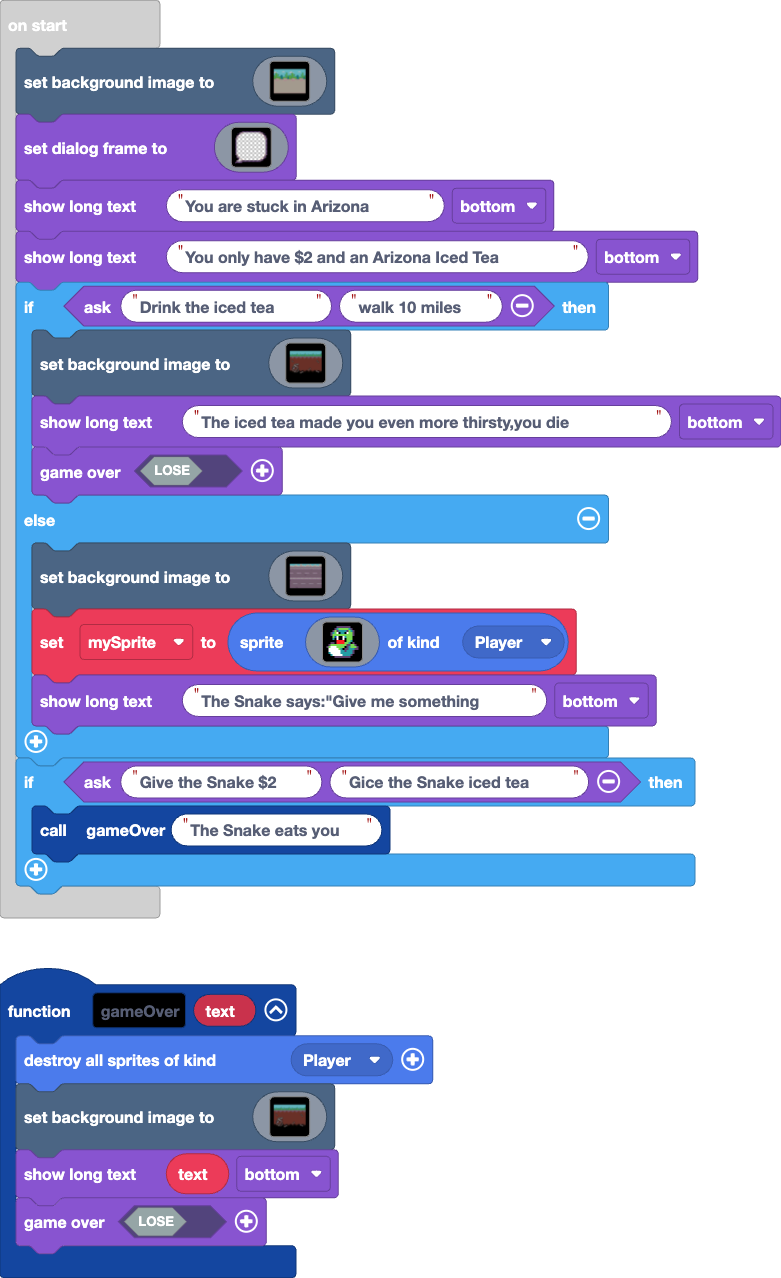
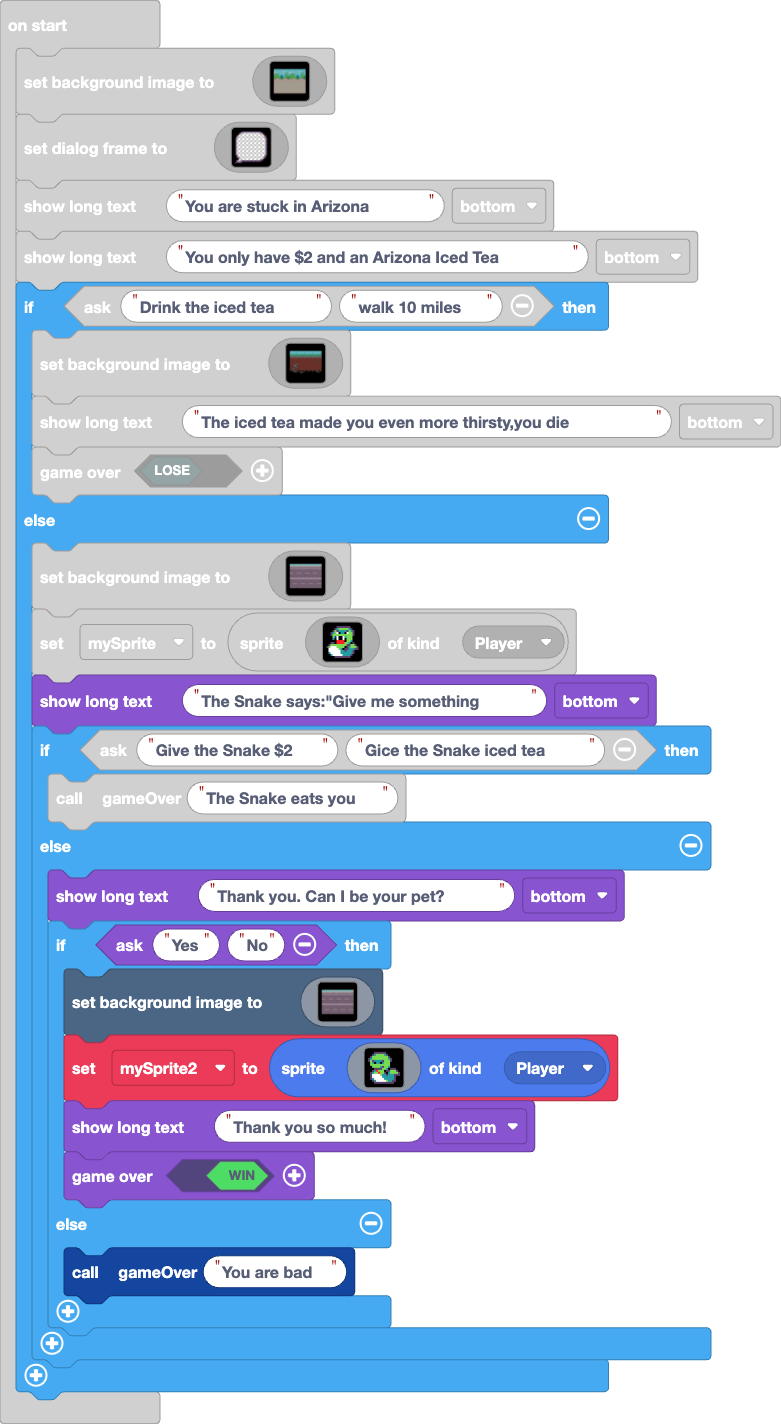
Finish the game

diff --git a/main.ts b/main.ts
@@ -125,6 +125,7 @@ function gameOver (text: string) {
     game.showLongText(text, DialogLayout.Bottom)
     game.over(false)
 }
+let mySprite2: Sprite = null
 let mySprite: Sprite = null
 scene.setBackgroundImage(img`
     9999999999999999999999999999999999999999999999999999999999999999999999999999999999999999999999999999999999999999999999999999999999999999999999999999999999999999
@@ -543,7 +544,155 @@ if (game.ask("Drink the iced tea", "walk 10 miles")) {
         . . f f c c c c c c c c . . . . 
         `, SpriteKind.Player)
     game.showLongText("The Snake says:\"Give me something ", DialogLayout.Bottom)
-}
-if (game.ask("Give the Snake $2", "Gice the Snake iced tea")) {
-    gameOver("The Snake eats you")
+    if (game.ask("Give the Snake $2", "Gice the Snake iced tea")) {
+        gameOver("The Snake eats you")
+    } else {
+        game.showLongText("Thank you. Can I be your pet?", DialogLayout.Bottom)
+        if (game.ask("Yes", "No")) {
+            scene.setBackgroundImage(img`
+                9999999999999999999999999999999999999999999999999999999999999999999999999999999999999999999999999999999999999999999999999999999999999999999999999999999999999999
+                9999999999999999999999999999999999999999999999999999111111111119999999999999999999999999999999999999991111999999999999999999999999999999999999999999111111111111
[12 lines of base64/hex data omitted]
+                cccccccccccccccccccccccccccccccccccccccccccccccccccccccccccccccccccccccccccccccccccccccccccccccccccccccccccccccccccccccccccccccccccccccccccccccccccccccccccccccc
+                1111111111111111111111111111111111111111111111111111111111111111111111111111111111111111111111111111111111111111111111111111111111111111111111111111111111111111
[3 lines of base64/hex data omitted]
+                bbbbbbbbbbbbbbbbbbbbbbbbbbbbbbbbbbbbbbbbbbbbbbbbbbbbbbbbbbbbbbbbbbbbbbbbbbbbbbbbbbbbbbbbbbbbbbbbbbbbbbbbbbbbbbbbbbbbbbbbbbbbbbbbbbbbbbbbbbbbbbbbbbbbbbbbbbbbbbbb
+                bbbbbbbbbbbbbbbbbbbbbbbbbbbbbbbbbbbbbbbbbbbbbbbbbbbbbbbbbbbbbbbbbbbbbbbbbbbbbbbbbbbbbbbbbbbbbbbbbbbbbbbbbbbbbbbbbbbbbbbbbbbbbbbbbbbbbbbbbbbbbbbbbbbbbbbbbbbbbbbb
+                bbbbbbbbbbbbbbbbbbbbbbbbbbbbbbbbbbbbbbbbbbbbbbbbbbbbbbbbbbbbbbbbbbbbbbbbbbbbbbbbbbbbbbbbbbbbbbbbbbbbbbbbbbbbbbbbbbbbbbbbbbbbbbbbbbbbbbbbbbbbbbbbbbbbbbbbbbbbbbbb
+                bbbbbbbbbbbbbbbbbbbbbbbbbbbbbbbbbbbbbbbbbbbbbbbbbbbbbbbbbbbbbbbbbbbbbbbbbbbbbbbbbbbbbbbbbbbbbbbbbbbbbbbbbbbbbbbbbbbbbbbbbbbbbbbbbbbbbbbbbbbbbbbbbbbbbbbbbbbbbbbb
[2 lines of base64/hex data omitted]
+                bbbbbbbbbbbbbbbbbbbbbbbbbbbbbbbbbbbbbbbbbbbbbbbbbbbbbbbbbbbbbbbbbbbbbbbbbbbbbbbbbbbbbbbbbbbbbbbbbbbbbbbbbbbbbbbbbbbbbbbbbbbbbbbbbbbbbbbbbbbbbbbbbbbbbbbbbbbbbbbb
+                bbbbbbbbbbbbbbbbbbbbbbbbbbbbbbbbbbbbbbbbbbbbbbbbbbbbbbbbbbbbbbbbbbbbbbbbbbbbbbbbbbbbbbbbbbbbbbbbbbbbbbbbbbbbbbbbbbbbbbbbbbbbbbbbbbbbbbbbbbbbbbbbbbbbbbbbbbbbbbbb
+                bbbbbbbbbbbbbbbbbbbbbbbbbbbbbbbbbbbbbbbbbbbbbbbbbbbbbbbbbbbbbbbbbbbbbbbbbbbbbbbbbbbbbbbbbbbbbbbbbbbbbbbbbbbbbbccccbbbbbbbbbbbbbbbbbbbbbbbbbbbbbbbbbbbbbbbbbbbbbb
+                bbbbbbbbbbbbbccccbbbbbbbbbbbbbbbbbbbbbbbbbbbbbbbbbbbbbbbbbbbbbbbbbbbbbbbbbbbbbbbbbbbbbbbbbbbbbbbbbbbbbbccccbccbbbbbbbbbbbbbbbbbbbbbbbbbbbbbbbbbbbbbbbbbbbbbbbbbb
+                bbbbbbbbbbbbcbddbcbbbbbbbbbbbbbbbbbbbbbbbbbbbbbbbbbbbbbbbbbbbbbbbbbbbbbbbbbbbbbbbbbbbbbbbbbbbbbbbbbbbbbbbbbccbbbbbbbbbbbbbbbbbbbbbbbbbbbbbbbbbbbbbbbbbbbbbbbbbbb
+                bbbbbbbbbbbbbbbbbbbbbbbbbbbbbbbbbbbbbbbbbbbbbbbbbbbbbbbbbbbbbbbbbbbbbbbbbbbbbbbbbbbbbbbbbbbbbbbbbbbbbbbbbbbbbcbbbbbbbbbbbbbbbbbbbbbbbbbbbbbbbbbbbbbbbbbbbbbbbbbb
+                bbbbbbbbbbbbbbbbbbbbbbbbbbbbbbbbbbbbbbbbbbbbbbbbbbbbbbbbbbbbbbbbbbbbbbbbbbbbbbbbbbbbbbbbbbbbbbbbbbbbbbbbbbbbbbbbbbbbbbbbbbbbbbbbbbbbbbbbbbbbbbbbbbbbbbbbbbbbbbbb
+                bbbbbbbbbbbbbbbbbbbbbbbbbbbbbbbbbbbbbbbbbbbbbbbbbbbbbbbbbbbbbbbbbbbbbbbbbbbbbbbbbbbbbbbbbbbbbbbbbbbbbbbbbbbbbbbbbbbbbbbbbbbbbbbbbbbbbbbbbbbbbbbbbbbbbbbbbbbbbbbb
+                bbbbbbbbbbbbbbbbbbbbbbbbbbbbbbbbbbbbbbbbbbbbbbbbbbbbbbbbbbbbbbbbbbbbbbbbbbbbbbbbbbbbbbbbbbbbbbbbbbbbbbbbbbbbbbbbbbbbbbbbbbbbbbbbbbbbbbbbbbbbbbbbbbbbbbbbbbbbbbbb
+                bbbbbbbbbbbbbbbbbbbbbbbbbbbbbbbbbbbbbbbbbbbbbbbbbbbbbbbbbbbbbbbbbbbbbbbbbbbbbbbbbbbbbbbbbbbbbbbbbbbbbbbbbbbbbbbbbbbbbbbbbbbbbbbbbbbbbbbbbbbbbbbbbbbbbbbbbbbbbbbb
+                bbbbbbbbbbbbbbbbbbbbbbbbbbbbbbbbbbbbbbbbbbbbbbbbbbbbbbbbbbbbbbbbbbbbbbbbbbbbbbbbbbbbbbbbbbbbbbbbbbbbbbbbbbbbbbbbbbbbbbbbbbbbbbbbbbbbbbbbbbbbbbbbbbbbbbbbbbbbbbbb
+                bbbbbbbbbbbbbbbbbbbbbbbbbbbbbbbbbbbbbbbbbbbbbbbbbbbbbbbbbbbbbbbbbbbbbbbbbbbbbbbbbbbbbbbbbbbbbbbbbbbbbbbbbbbbbbbbbbbbbbbbbbbbbbbbbbbbbbbbbbbbbbbbbbbbbbbbbbbbbbbb
+                bbbbbbbbbbbbbbbbbbbbbbbbbbbbbbbbbbbbbbbbbbbbbbbbbbbbbbbbbbbbbbbbbbbbbbbbbbbbbbbbbbbbbbbbbbbbbbbbbbbbbbbbbbbbbbbbbbbbbbbbbbbbbbbbbbbbbbbbbbbbbbbbbbbbbbbbbbbbbbbb
+                bbbbbbbbbbbbbbbbbbbbbbbbbbbbbbbbbbbbbbbbbbbbbbbbbbbbbbbbbbbbbbbbbbbbbbbbbbbbbbbbbbbbbbbbbbbbbbbbbbbbbbbbbbbbbbbbbbbbbbbbbbbbbbbbbbbbbbbbbbbbbbbbbbbbbbbbbbbbbbbb
+                bbbbbbbbbbbbbbbbbbbbbbbbbbbbbbbbbbbbbbbbbbbbbbbbbbbbbbbbbbbbbbbbbbbbbbbbbbbbbbbbbbbbbbbbbbbbbbbbbbbbbbbbbbbbbbbbbbbbbbbbbbbbbbbbbbbbbbbbbbbbbbbbbbbbbbbbbbbbbbbb
+                bbbbbbbbbbbbbbbbbbbbbbbbbbbbbbbbbbbbbbbbbbbbbbbbbbbbbbbbbbbbbbbbbbbbbbbbbbbbbbbbbbbbbbbbbbbbbbbbbbbbbbbbbbbbbbbbbbbbbbbbbbbbbbbbbbbbbbbbbbbbbbbbbbbbbbbbbbbbbbbb
+                bbbbbbbbbbbbbbbbbbbbbbbbbbbbbbbbbbbbbbbbbbbbbbbbbbbbbbbbbbbbbbbbbbbbbbbbbbbbbbbbbbbbbbbbbbbbbbbbbbbbbbbbbbbbbbbbbbbbbbbbbbbbbbbbbbbbbbbbbbbbbbbbbbbbbbbbbbbbbbbb
+                bbbbbbbbbbbbbbbbbbbbbbbbbbbbbbbbbbbbbbbbbbbbbbbbbbbbbbbbbbbbbbbbbbbbbbbbbbbbbbbbbbbbbbbbbbbbbbbbbbbbbbbbbbbbbbbbbbbbbbbbbbbbbbbbbbbbbbbbbbbbbbbbbbbbbbbbbbbbbbbb
+                bbbbbbbbbbbbbbbbbbbbbbbbbbbbbbbbbbbbbbbbbbbbbbbbbbbbbbbbbbbbbbbbbbbbbbbbbbbbbbbbbbbbbbbbbbbbbbbbbbbbbbbbbbbbbbbbbbbbbbbbbbbbbbbbbbbbbbbbbbbbbbbbbbbbbbbbbbbbbbbb
+                bbbbbbbbbbbbbbbbbbbbbbbbbbbbbbbbbbbbbbbbbbbbbbbbbbbbbbbbbbbbbbbbbbbbbbbbbbbbbbbbbbbbbbbbbbbbbbbbbbbbbbbbbbbbbbbbbbbbbbbbbbbbbbbbbbbbbbbbbbbbbbbbbbbbbbbbbbbbbbbb
[2 lines of base64/hex data omitted]
+                bbbbbbbbbbbbbbbbbbbbbbbbbbbbbbbbbbbbbbbbbbbbbbbbbbbbbbbbbbbbbbbbbbbbbbbbbbbbbbbbbbbbbbbbbbbbbbbbbbbbbbbbbbbbbbbbbbbbbbbbbbbbbbbbbbbbbbbbbbbbbbbbbbbbbbbbbbbbbbbb
+                bbbbbbbbbbbbbbbbbbbbbbbbbbbbbbbbbbbbbbbbbbbbbbbbbbbbbbbbbbbbbbbbbbbbbbbbbbbbbbbbbbbbbbbbbbbbbbbbbbbbbbbbbbbbbbbbbbbbbbbbbbbbbbbbbbbbbbbbbbbbbbbbbbbbbbbbbbbbbbbb
+                bbbbbbbbbbbbbbbbbbbbbbbbbbbbbbbbbbbbbbbbbbbbbbbbbbbbbbbbbbbbbbbbbbbbbbbbbbbbbbbbbbbbbbbbbbbbbbbbbbbbbbbbbbbbbbbbbbbbbbbbbbbbbbbbbbbbbbbbbbbbbbbbbbbbbbbbbbbbbbbb
+                bbbbbbbbbbbbbbbbbbbbbbbbbbbbbbbbbbbbbbbbbbbbbbbbbbbbbbbbbbbbbbbbbbbbbbbbbbbbbbbbbbbbbbbbbbbbbbbbbbbbbbbbbbbbbbbbbbbbbbbbbbbbbbbbbbbbbbbbbbbbbbbbbbbbbbbbbbbbbbbb
+                bbbbbbbbbbbbbbbbbbbbbbbbbbbbbbbbbbbbbbbbbbbbbbbbbbbbbbbbbbbbbbbbbbbbbbbbbbbbbbbbbbbbbbbbbbbbbbbbbbbbbbbbbbbbbbbbbbbbbbbbbbbbbbbbbbbbbbbbbbbbbbbbbbbbbbbbbbbbbbbb
+                bbbbbbbbbbbbbbbbbbbbbbbbbbbbbbbbbbbbbbbbbbbbbbbbbbbbbbbbbbbbbbbbbbbbbbbbbbbbbbbbbbbcbbbbbbbbbbbbbbbbbbbbbbbbbbbbbbbbbbbbbbbbbbbbbbbbbbbbbbbbbbbbbbbbbbbbbbbbbbbb
+                bbbbbbbbbbbbbbbbbbbbbbbbbbbbbbbbbbbbbbbbbbbbbbbbbbbbbbbbbbbbbbbbbbbbbbbbbcccbbbccccbbbbbbbbbbbbbbbbbbbbbbbbbbbbbbbbbbbbbbbbbbbbbbbbbbbbbbbbbbbbbbbbbbbbbbbbbbbbb
+                bbbbbbbbbbbbbbbbbbbbbbbbbbbbbbbbbbbbbbbbbbbbbbbbbbbbbbbbbbbbbbbbbbbbbbbbcbbcbbcbcbbbbbbbbbbbbbbbbbbbbbbbbbbbbbbbbbbbbbbbbbbbbbbbbbbbbbbbbbbbbbbbbbbbbbbbbbbbbbbb
+                bbbbbbbbbbbbbbbbbbbbbbbbbbbbbbbbbbbbbbbbbbbbbbbbbbbbbbbbbbbbbbbbbbbbbbbbbbbbccbcbbbbbbbbbbbbbbbbbbbbbbbbbbbbbbbbbbbbbbbbbbbbbbbbbbbbbbbbbbbbbbbbbbbbbbbbbbbbbbbb
+                bbbbbbbbbbbbbbbbbbbbbbbbbbbbbbbbbbbbbbbbbbbbbbbbbbbbbbbbbbbbbbbbbbbbbbbbbbbbbcccccbbbbbbbbbbbbbbbbbbbbbbbbbbbbbbbbbbbbbbbbbbbbbbbbbbbbbbbbbbbbbbbbbbbbbbbbbbbbbb
+                bbbbbbbbbbbbbbbbbbbbbbbbbbbbbbbbbbbbbbbbbbbbbbbbbbbbbbbbbbbbbbbbbbbbbbbbbbbbbbbbbbcbbbbbbbbbbbbbbbbbbbbbbbbbbbbbbbbbbbbbbbbbbbbbbbbbbbbbbbbbbbbbbbbbbbbbbbbbbbbb
+                bbbbbbbbbbbbbbbbbbbbbbbbbbbbbbbbbbbbbbbbbbbbbbbbbbbbbbbbbbbbbbbbbbbbbbbbbbbbbbbbbbbbbbbbbbbbbbbbbbbbbbccccbbbbbbbbbbbbbbbbbbbbbbbbbbbbbbbbbbbbbbbbbbbbbbbbbbbbbb
+                bbbbbbbbbbbbbbbbbbbbbbbbbbbbbbbbbbbbbbbbbbbbbbbbbbbbbbbbbbbbbbbbbbbbbbbbbbbbbbbbbbbbbbbbbbbbbbbbbbbbbcbddbcbbbbbbbbbbbbbbbbbbbbbbbbbbbbbbbbbbbbbbbbbbbbbbbbbbbbb
+                bbbbbbbbbbbbbbbbbbbbbbbbbbbbbbbbbbbbbbbbbbbbbbbbbbbbbbbbbbbbbbbbbbbbbbbbbbbbbbbbbbbbbbbbbbbbbbbbbbbbbbbbbbbbbbbbbbbbbbbbbbbbbbbbbbbbbbbbbbbbbbbbbbbbbbbbbbbbbbbb
+                bbbbbbbbbbbbbbbbbbbbbbbbbbbbbbbbbbbbbbbbbbbbbbbbbbbbbbbbbbbbbbbbbbbbbbbbbbbbbbbbbbbbbbbbbbbbbbbbbbbbbbbbbbbbbbbbbbbbbbbbbbbbbbbbbbbbbbbbbbbbbbbbbbbbbbbbbbbbbbbb
+                bbbbbbbbbbbbbbbbbbbbbbbbbbbbbbbbbbbbbbbbbbbbbbbbbbbbbbbbbbbbbbbbbbbbbbbbbbbbbbbbbbbbbbbbbbbbbbbbbbbbbbbbbbbbbbbbbbbbbbbbbbbbbbbbbbbbbbbbbbbbbbbbbbbbbbbbbbbbbbbb
+                bbbbbbbbbbbbbbbbbbbbbbbbbbbbbbbbbbbbbbbbbbbbbbbbbbbbbbbbbbbbbbbbbbbbbbbbbbbbbbbbbbbbbbbbbbbbbbbbbbbbbbbbbbbbbbbbbbbbbbbbbbbbbbbbbbbbbbbbbbbbbbbbbbbbbbbbbbbbbbbb
+                bbbbbbbbbbbbbbbbbbbbbbbbbbbbbbbbbbbbbbbbbbbbbbbbbbbbbbbbbbbbbbbbbbbbbbbbbbbbbbbbbbbbbbbbbbbbbbbbbbbbbbbbbbbbbbbbbbbbbbbbbbbbbbbbbbbbbbbbbbbbbbbbbbbbbbbbbbbbbbbb
+                bbbbbbbbbbbbbbbbbbbbbbbbbbbbbbbbbbbbbbbbbbbbbbbbbbbbbbbbbbbbbbbbbbbbbbbbbbbbbbbbbbbbbbbbbbbbbbbbbbbbbbbbbbbbbbbbbbbbbbbbbbbbbbbbbbbbbbbbbbbbbbbbbbbbbbbbbbbbbbbb
+                bbbbbbbbbbbbbbbbbbbbbbbbbbbbbbbbbbbbbbbbbbbbbbbbbbbbbbbbbbbbbbbbbbbbbbbbbbbbbbbbbbbbbbbbbbbbbbbbbbbbbbbbbbbbbbbbbbbbbbbbbbbbbbbbbbbbbbbbbbbbbbbbbbbbbbbbbbbbbbbb
+                bbbbbbbbbbbbbbbbbbbbbbbbbbbbbbbbbbbbbbbbbbbbbbbbbbbbbbbbbbbbbbbbbbbbbbbbbbbbbbbbbbbbbbbbbbbbbbbbbbbbbbbbbbbbbbbbbbbbbbbbbbbbbbbbbbbbbbbbbbbbbbbbbbbbbbbbbbbbbbbb
+                bbbbbbbbbbbbbbbbbbbbbbbbbbbbbbbbbbbbbbbbbbbbbbbbbbbbbbbbbbbbbbbbbbbbbbbbbbbbbbbbbbbbbbbbbbbbbbbbbbbbbbbbbbbbbbbbbbbbbbbbbbbbbbbbbbbbbbbbbbbbbbbbbbbbbbbbbbbbbbbb
[2 lines of base64/hex data omitted]
+                bbbbbbbbbbbbbbbbbbbbbbbbbbbbbbbbbbbbbbbbbbbbbbbbbbbbbbbbbbbbbbbbbbbbbbbbbbbbbbbbbbbbbbbbbbbbbbbbbbbbbbbbbbbbbbbbbbbbbbbbbbbbbbbbbbbbbbbbbbbbbbbbbbbbbbbbbbbbbbbb
+                bbbbbbbbbbbbbbbbbbbbbbbbbbbbbbbbbbbbbbbbbbbbbbbbbbbbbbbbbbbbbbbbbbbbbbbbbbbbbbbbbbbbbbbbbbbbbbbbbbbbbbbbbbbbbbbbbbbbbbbbbbbbbbbbbbbbbbbbbbbbbbbbbbbbbbbbbbbbbbbb
[2 lines of base64/hex data omitted]
+                bbbbbbbbbbbbbbbbbbbbbbbbbbbbbbbbbbbbbbbbbbbbbbbbbbbbbbbbbbbbbbbbbbbbbbbbbbbbbbbbbbbbbbbbbbbbbbbbbbbbbbbbbbbbbbbbbbbbbbbbbbbbbbbbbbbbbbbbbbbbbbbbbbbbbbbbbbbbbbbb
+                bbbbbbbbbbbbbbbbbbbbbbbbbbbbbbbbbbbbbbbbbbbbbbbbbbbbbbbbbbbbbbbbbbbbbbbbbbbbbbbbbbbbbbbbbbbbbbbbbbbbbbbbbbbbbbbbbbbbbbbbbbbbbbbbbbbbbbbbbbbbbbbbbbbbbbbbbbbbbbbb
+                bbbbbbbbbbbbbbbbbbbbbbbbbbbbbbbbbbbbbbbbbbbbbbbbbbbbbbbbbbbbbbbbbbbbbbbbbbbbbbbbbbbbbbbbbbbbbbbbbbbbbbbbbbbbbbbbbbbbbbbbbbbbbbbbbbbbbbbbbbbbbbbbbbbbbbbbbbbbbbbb
+                bbbbbbbbbbbbbbbbbbbbbbbbbbbbbbbbbbbbbbbbbbbbbbbbbbbbbbbbbbbbbbbbbbbbbbbbbbbbbbbbbbbbbbbbbbbbbbbbbbbbbbbbbbbbbbbbbbbbbbbbbbbbbbbbbbbbbbbbbbbbbbbbbbbbbbbbbbbbbbbb
+                bbbcccbbbbbbbbbbbbbbbbbbbbbbbbbbbbbbbbbbbbbbbbbbbbbbbbbbbbbbbbbbbbbbbbbbbbbbbbbbbbbbbbbbbbbbbbbbbbbbbbbbbbbbbbbbbbbbbbbbbbbbbbbbbbbbbbbbbbbbbbbbbbbbbbbbbbbbbbbb
+                bbccbbcbbbbbbbbbbbbbbbbbbbbbbbbbbbbbbbbbbbbbbbbbbbbbbbbbbbbbbbbbbbbbbbbbbbbbbbbbbbbbbbbbbbbbbbbbbbbbbbbbbbbbbbbbbbbbbbbbbbbbbbbbbbbbbbbbbbbbbbbbbbbbbbbbbbbbbbbb
+                cccbbbbbbbbbbbbbbbbbbbbbbbbbbbbbbbbbbbbbbbbbbbbbbbbbbbbbbbbbbbbbbbbbbbbbbbbbbbbbbbbbbbbbbbbbbbbbbbbbbbbbbbbbbbbbbbbbbbbbbbbbbbbbbbbbbbbbbbbbbbbbbbbbbbbbbbbbbbbc
+                bccbbbbbbbbbbbbbbbbbbbbbbbbbbbbbbbbbbbbbbbbbbbbbbbbbbbbbbbbbbbbbbbbbbbbbbbbbbbbbbbbbbbbbbbbbbbbbbbbbbbbbbbbbbbbbbbbbbbbbbbbbbbbbbbbbbbbbbbbbbbbbbbbbbbbbbbbbcccc
+                ccccbbbbbbbbbbbbbbbbbbbbbbbbbbbbbbbbbbbbbbbbbbbbbbbbbbbbbbbbbbbbbbbbbbbbbbbbbbbbbbbbbbbbbbbbbbbbbbbbbbbbbbbbbbbbbbbbbbbbbbbbbbbbbbbbbbbbbbbbbbbbbbbbbbbbbbccbbbb
+                bbbbccbbbbbbbbbbbbbbbbbbbbbbbbbbbbbbbbbbbbbbbbbbbbbbbbbbbbbbbbbbbbbbbbbbbbbbbbbbbbbbbbbbbbbbbbbbbbbbbbbbbbbbbbbbbbbbbbbbbbbbbbbbbbbbbbbbbbbbbbbbbbbbbbbbbbbbbbbb
+                bbbbbbbbbbbbbbbbbbbbbbbbbbbbbbbbbbbbbbbbbbbbbbbbbbbbbbbbbbbbbbbbbbbbbbbbbbbbbbbbbbbbbbbbbbbbbbbbbbbbbbbbbbbbbbbbbbbbbbbbbbbbbbbbbbbbbbbbbbbbbbbbbbbbbbbbbbbbbbbb
+                bbbbbbbbbbbbbbbbbbbbbbbbbbbbbbbbbbbbbbbbbbbbbbbbbbbbbbbbbbbbbbbbbbbbbbbbbbbbbbbbbbbbbbbbbbbbbbbbbbbbbbbbbbbbbbbbbbbbbbbbbbbbbbbbbbbbbbbbbbbbbbbbbbbbbbbbbbbbbbbb
+                bbbbbbbbbbbbbbbbbbbbbbbbbbbbbbbbbbbbbbbbbbbbbbbbbbbbbbbbbbbbbbbbbbbbbbbbbbbbbbbbbbbbbbbbbbbbbbbbbbbbbbbbbbbbbbbbbbbbbbbbbbbbbbbbbbbbbbbbbbbbbbbbbbbbbbbbbbbbbbbb
+                bbbbbbbbbbbbbbbbbbbbbbbbbbbbbbbbbbbbbbbbbbbbbbbbbbbbbbbbbbbbbbbbbbbbbbbbbbbbbbbbbbbbbbbbbbbbbbbbbbbbbbbbbbbbbbbbbbbbbbbbbbbbbbbbbbbbbbbbbbbbbbbbbbbbbbbbbbbbbbbb
+                bbbbbbbbbbbbbbbbbbbbbbbbbbbbbbbbbbbbbbbbbbbbbbbbbbbbbbbbbbbbbbbbbbbbbbbbbbbbbbbbbbbbbbbbbbbbbbbbbbbbbbbbbbbbbbbbbbbbbbbbbbbbbbbbbbbbbbbbbbbbbbbbbbbbbbbbbbbbbbbb
+                bbbbbbbbbbbbbbbbbbbbbbbbbbbbbbbbbbbbbbbbbbbbbbbbbbbbbbbbbbbbbbbbbbbbbbbbbbbbbbbbbbbbbbbbbbbbbbbbbbbbbbbbbbbbbbbbbbbbbbbbbbbbbbbbbbbbbbbbbbbbbbbbbbbbbbbbbbbbbbbb
+                bbbbbbbbbbbbbbbbbbbbbbbbbbbbbbbbbbbbbbbbccccbbbbbbbbbbbbbbbbbbbbbbbbbbbbbbbbbbbbbbbbbbbbbbbbbbbbbbbbbbbbbbbbbbbbbbbbbbbbbbbbbbbbbbbbbbbbbbbbbbbbbbbbbbbbbbbbbbbb
+                bbbbbbbbbbbbbbbbbbbbbbbbbbbbbbbbbbbbbbbcbddbcbbbbbbbbbbbbbbbbbbbbbbbbbbbbbbbbbbbbbbbbbbbbbbbbbbbbbbbbbbbbbbbbbbbbbbbbbbbbbbbbbbbbbbbbbbbbbbbbbbbbbbbbbbbbbbbbbbb
+                bbbbbbbbbbbbbbbbbbbbbbbbbbbbbbbbbbbbbbbbbbbbbbbbbbbbbbbbbbbbbbbbbbbbbbbbbbbbbbbbbbbbbbbbbbbbbbbbbbbbbbbbbbbbbbbbbbbbbbbbbbbbbbbbbbbbbbbbbbbbbbbbbbbbbbbbbbbbbbbb
+                bbbbbbbbbbbbbbbbbbbbbbbbbbbbbbbbbbbbbbbbbbbbbbbbbbbbbbbbbbbbbbbbbbbbbbbbbbbbbbbbbbbbbbbbbbbbbbbbbbbbbbbbbbbbbbbbbbbbbbbbbbbbbbbbbbbbbbbbbbbbbbbbbbbbbbbbbbbbbbbb
+                bbbbbbbbbbbbbbbbbbbbbbbbbbbbbbbbbbbbbbbbbbbbbbbbbbbbbbbbbbbbbbbbbbbbbbbbbbbbbbbbbbbbbbbbbbbbbbbbbbbbbbbbbbbbbbbbbbbbbbbbbbbbbbbbbbbbbbbbbbbbbbbbbbbbbbbbbbbbbbbb
+                bbbbbbbbbbbbbbbbbbbbbbbbbbbbbbbbbbbbbbbbbbbbbbbbbbbbbbbbbbbbbbbbbbbbbbbbbbbbbbbbbbbbbbbbbbbbbbbbbbbbbbbbbbbbbbbbbbbbbbbbbbbbbbbbbbbbbbbbbbbbbbbbbbbbbbbbbbbbbbbb
[2 lines of base64/hex data omitted]
+                bbbbbbbbbbbbbbbbbbbbbbbbbbbbbbbbbbbbbbbbbbbbbbbbbbbbbbbbbbbbbbbbbbbbbbbbbbbbbbbbbbbbbbbbbbbbbbbbbbbbbbbbbbbbbbbbbbbbbbbbbbbbbbbbbbbbbbbbbbbbbbbbbbbbbbbbbbbbbbbb
+                bbbbbbbbbbbbbbbbbbbbbbbbbbbbbbbbbbbbbbbbbbbbbbbbbbbbbbbbbbbbbbbbbbbbbbbbbbbbbbbbbbbbbbbbbbbbbbbbbbbbbbbbbbbbbbbbbbbbbbbbbbbbbbbbbbbbbbbbbbbbbbbbbbbbbbbbbbbbbbbb
+                bbbbbbbbbbbbbbbbbbbbbbbbbbbbbbbbbbbbbbbbbbbbbbbbbbbbbbbbbbbbbbbbbbbbbbbbbbbbbbbbbbbbbbbbbbbbbbbbbbbbbbbbbbbbbbbbbbbbbbbbbbbbbbbbbbbbbbbbbbbbbbbbbbbbbbbbbbbbbbbb
+                bbbbbbbbbbbbbbbbbbbbbbbbbbbbbbbbbbbbbbbbbbbbbbbbbbbbbbbbbbbbbbbbbbbbbbbbbbbbbbbbbbbbbbbbbbbbbbbbbbbbbbbbbbbbbbbbbbbbbbbbbbbbbbbbbbbbbbbbbbbbbbbbbbbbbbbbbbbbbbbb
+                bbbbbbbbbbbbbbbbbbbbbbbbbbbbbbbbbbbbbbbbbbbbbbbbbbbbbbbbbbbbbbbbbbbbbbbbbbbbbbbbbbbbbbbbbbbbbbbbbbbbbbbbbbbbbbbbbbbbbbbbbbbbbbbbbbbbbbbbbbbbbbbbbbbbbbbbbbbbbbbb
+                bbbbbbbbbbbbbbbbbbbbbbbbbbbbbbbbbbbbbbbbbbbbbbbbbbbbbbbbbbbbbbbbbbbbbbbbbbbbbbbbbbbbbbbbbbbbbbbbbbbbbbbbbbbbbbbbbbbbbbbbbbbbbbbbbbbbbbbbbbbbbbbbbbbbbbbbbbbbbbbb
+                bbbbbbbbbbbbbbbbbbbbbbbbbbbbbbbbbbbbbbbbbbbbbbbbbbbbbbbbbbbbbbbbbbbbbbbbbbbbbbbbbbbbbbbbbbbbbbbbbbbbbbbbbbbbbbbbbbbbbbbbbbbbbbbbbbbbbbbbbbbbbbbbbbbbbbbbbbbbbbbb
+                bbbbbbbbbbbbbbbbbbbbbbbbbbbbbbbbbbbbbbbbbbbbbbbbbbbbbbbbbbbbbbbbbbbbbbbbbbbbbbbbbbbbbbbbbbbbbbbbbbbbbbbbbbbbbbbbbbbbbbbbbbbbbbbbbbbbbbbbbbbbbbbbbbbbbbbbbbbbbbbb
+                bbbbbbbbbbbbbbbbbbbbbbbbbbbbbbbbbbbbbbbbbbbbbbbbbbbbbbbbbbbbbbbbbbbbbbbbbbbbbbbbbbbbbbbbbbbbbbbbbbbbbbbbbbbbbbbbbbbbbbbbbbbbbbbbbbbbbbbbbbbbbbbbbbbbbbbbbbbbbbbb
+                bbbbbbbbbbbbbbbbbbbbbbbbbbbbbbbbbbbbbbbbbbbbbbbbbbbbbbbbbbbbbbbbbbbbbbbbbbbbbbbbbbbbbbbbbbbbbbbbbbbbbbbbbbbbbbbbbbbbbbbbbbbbbbbbbbbbbbbbbbbbbbbbbbbbbbbbbbbbbbbb
+                ccbbbbbbbbbbbbbbbbbbbbbbbbbbbbbbbbbbbbbbbbbbbbbbbbbbbbbbbbbbbbbbbbbbbbbbbbbbbbbbbbbbbbbbbbbbbbbbbbbbbbbbbbbbbbbbbbbbbbbbbbbbbbbbbbbbbbbbbbbbbbbbbbbbbbbbbbbbbbcc
+                dbcbbbbbbbbbbbbbbbbbbbbbbbbbbbbbbbbbbbbbbbbbbbbbbbbbbbbbbbbbbbbbbbbbbbbbbbbbbbbbbbbbbbbbbbbbbbbbbbbbbbbbbbbbbbbbbbbbbbbbbbbbbbbbbbbbbbbbbbbbbbbbbbbbbbbbbbbbbcbd
+                bbbbbbbbbbbbbbbbbbbbbbbbbbbbbbbbbbbbbbbbbbbbbbbbbbbbbbbbbbbbbbbbbbbbbbbbbbbbbbbbbbbbbbbbbbbbbbbbbbbbbbbbbbbbbbbbbbbbbbbbbbbbbbbbbbbbbbbbbbbbbbbbbbbbbbbbbbbbbbbb
+                bbbbbbbbbbbbbbbbbbbbbbbbbbbbbbbbbbbbbbbbbbbbbbbbbbbbbbbbbbbbbbbbbbbbbbbbbbbbbbbbbbbbbbbbbbbbbbbbbbbbbbbbbbbbbbbbbbbbbbbbbbbbbbbbbbbbbbbbbbbbbbbbbbbbbbbbbbbbbbbb
+                bbbbbbbbbbbbbbbbbbbbbbbbbbbbbbbbbbbbbbbbbbbbbbbbbbbbbbbbbbbbbbbbbbbbbbbbbbbbbbbbbbbbbbbbbbbbbbbbbbbbbbbbbbbbbbbbbbbbbbbbbbbbbbbbbbbbbbbbbbbbbbbbbbbbbbbbbbbbbbbb
+                bbbbbbbbbbbbbbbbbbbbbbbbbbbbbccbbbbbbbbcbbbbbbbbbbbbbbbbbbbbbbbbbbbbbbbbbbbbbbbbbbbbbbbbbbbbbbbbbbbbbbbbbbbbbbbbbbbbbbbbbbbbbbbbbbbbbbbbbbbbbbbbbbbbbbbbbbbbbbbb
+                bbbbbbbbbbbbbbbbbbbbbbbbbbbbbbbbcccccccbbbbbbbbbbbbbbbbbbbbbbbbbbbbbbbbbbbbbbbbbbbbbbbbbbbbbbbbbbbbbbbbbbbbbbbbbbbbbbbbbbbbbbbbbbbbbbbbbbbbbbbbbbbbbbbbbbbbbbbbb
+                bbbbbbbbbbbbbbbbbbbbbbbbbbbbbbbbbbcbcbbbbbbbbbbbbbbbbbbbbbbbbbbbbbbbbbbbbbbbbbbbbbbbbbbbbbbbbbbbbbbbbbbbbbbbbbbbbbbbbbbbbbbbbbbbbbbbbbbbbbbbbbbbbbbbbbbbbbbbbbbb
+                bbbbbbbbbbbbbbbbbbbbbbbbbbbbbbbbbbbcccbbbbbbbbbbbbbbbbbbbbbbbbbbbbbbbbbbbbbbbbbbbbbbbbbbbbbbbbbbbbbbbbbbbbbbbbbbbbbbbbbbbbbbbbbbbbbbbbbbbbbbbbbbbbbbbbbbbbbbbbbb
+                bbbbbbbbbbbbbbbbbbbbbbbbbbbbbbbbbbbbbbccbbbbbbbbbbbbbbbbbbbbbbbbbbbbbbbbbbbbbbbbbbbbbbbbbbbbbbbbbbbbbbbbbbbbbbbbbbbbbbbbbbbbbbbbbbbbbbbbbbbbbbbbbbbbbbbbbbbbbbbb
+                bbbbbbbbbbbbbbbbbbbbbbbbbbbbbbbbbbbbbbbbbbbbbbbbbbbbbbbbbbbbbbbbbbbbbbbbbbbbbbbbbbbbbbbbbbbbbbbbbbbbbbbbbbbbbbbbbbbbbbbbbbbbbbbbbbbbbbbbbbbbbbbbbbbbbbbbbbbbbbbb
+                `)
+            mySprite2 = sprites.create(img`
+                . . . c c c c c c . . . . . . . 
+                . . c 6 7 7 7 7 6 c . . . . . . 
+                . c 7 7 7 7 7 7 7 7 c . . . . . 
+                c 6 7 7 7 7 7 7 7 7 6 c . . . . 
+                c 7 c 6 6 6 6 c 7 7 7 c . . . . 
+                f 7 6 f 6 6 f 6 7 7 7 f . . . . 
+                f 7 7 7 7 7 7 7 7 7 7 f . . . . 
+                . f 7 7 7 7 6 c 7 7 6 f . . . . 
+                . . f c c c c 7 7 6 f c c c . . 
+                . . c 6 2 7 7 7 f c c 7 7 7 c . 
+                . c 6 7 7 2 7 7 c f 6 7 7 7 7 c 
+                . c 1 1 1 1 7 6 6 c 6 6 6 c c c 
+                . c 1 1 1 1 1 6 6 6 6 6 6 c . . 
+                . c 6 1 1 1 1 1 6 6 6 6 6 c . . 
+                . . c 6 1 1 1 1 1 7 6 6 c c . . 
+                . . . c c c c c c c c c c . . . 
+                `, SpriteKind.Player)
+            game.showLongText("Thank you so much!", DialogLayout.Bottom)
+            game.over(true)
+        } else {
+            gameOver("You are bad")
+        }
+    }
 }
